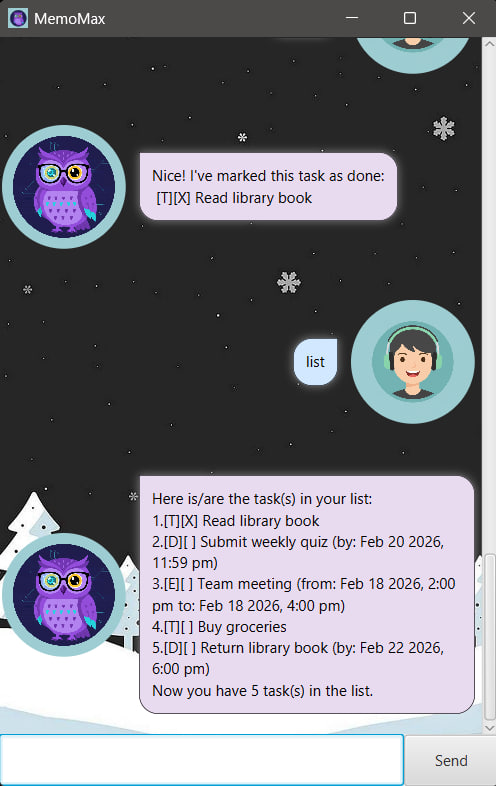
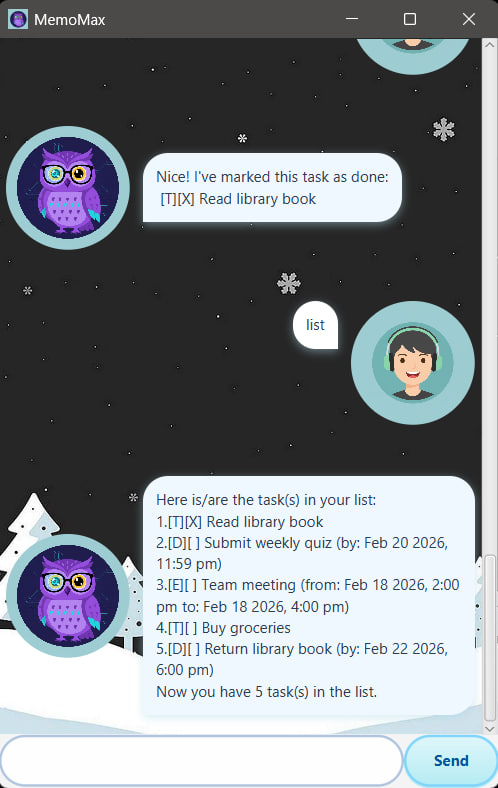
Implement window resizing and Snow Theme GUI

diff --git a/src/main/java/memomax/gui/DialogBox.java b/src/main/java/memomax/gui/DialogBox.java
@@ -36,7 +36,6 @@ public class DialogBox extends HBox {
         dialog.setText(text);
         displayPicture.setImage(img);
         dialog.setPadding(new javafx.geometry.Insets(10));
-        dialog.setStyle("-fx-border-width: 0.5;");
         dialog.setMinHeight(javafx.scene.layout.Region.USE_PREF_SIZE);
 
         makeCircle();
@@ -74,13 +73,11 @@ public class DialogBox extends HBox {
      */
     public static DialogBox getUserDialog(String text, Image img) {
         DialogBox db = new DialogBox(text, img);
-        db.dialog.setStyle(db.dialog.getStyle()
-                + "-fx-background-color: #D1E8FF; "
-                + "-fx-border-color: #000000; "
-                + "-fx-text-fill: black; "
-                + "-fx-background-radius: 15 0 15 15; "
-                + "-fx-border-radius: 15 0 15 15; "
-                + "-fx-effect: dropshadow(three-pass-box, rgba(255, 255, 255, 0.4), 10, 0, 0, 0);");
+        db.dialog.setStyle("-fx-background-color: #FFFFFF; "
+                + "-fx-text-fill: #2C3E50; "
+                + "-fx-background-radius: 20 20 0 20; "
+                + "-fx-padding: 10; "
+                + "-fx-effect: dropshadow(three-pass-box, rgba(173, 216, 230, 0.5), 10, 0, 0, 2);");
         return db;
     }
 
@@ -95,13 +92,11 @@ public class DialogBox extends HBox {
     public static DialogBox getMemoMaxDialog(String text, Image img) {
         DialogBox db = new DialogBox(text, img);
         db.flip();
-        db.dialog.setStyle(db.dialog.getStyle()
-                + "-fx-background-color: #E8DAEF; "
-                + "-fx-border-color: #000000; "
-                + "-fx-text-fill: black; "
-                + "-fx-background-radius: 0 15 15 15; "
-                + "-fx-border-radius: 0 15 15 15; "
-                + "-fx-effect: dropshadow(three-pass-box, rgba(255, 255, 255, 0.4), 10, 0, 0, 0);");
+        db.dialog.setStyle("-fx-background-color: #F0F8FF; "
+                + "-fx-text-fill: #2C3E50; "
+                + "-fx-background-radius: 20 20 20 0; "
+                + "-fx-padding: 10; "
+                + "-fx-effect: dropshadow(three-pass-box, rgba(173, 216, 230, 0.5), 10, 0, 0, 2);");
         return db;
     }
 }

diff --git a/src/main/java/memomax/gui/MainWindow.java b/src/main/java/memomax/gui/MainWindow.java
@@ -44,6 +44,9 @@ public class MainWindow extends AnchorPane {
     @FXML
     public void initialize() {
         scrollPane.vvalueProperty().bind(dialogContainer.heightProperty());
+
+        dialogContainer.prefWidthProperty().bind(scrollPane.widthProperty());
+
         String imageUrl = Objects.requireNonNull(getClass().getResource("/images/background.png"))
                 .toExternalForm();
         scrollPane.setStyle("-fx-background-color: transparent; "
@@ -54,6 +57,30 @@ public class MainWindow extends AnchorPane {
             + "-fx-background-repeat: no-repeat;");
 
         dialogContainer.setStyle("-fx-background-color: transparent;");
+
+        userInput.setStyle("-fx-background-color: rgba(255, 255, 255, 0.9); "
+                + "-fx-background-radius: 20; "
+                + "-fx-border-color: #B0C4DE; "
+                + "-fx-border-radius: 20; "
+                + "-fx-border-width: 2; "
+                + "-fx-padding: 5 15 5 15; "
+                + "-fx-text-fill: #2F4F4F; "
+                + "-fx-prompt-text-fill: #A9A9A9;");
+
+        String buttonBaseStyle = "-fx-background-color: linear-gradient(to bottom, #E0F7FA, #B2EBF2); "
+                + "-fx-background-radius: 20; "
+                + "-fx-border-color: #81D4FA; "
+                + "-fx-border-radius: 20; "
+                + "-fx-border-width: 2; "
+                + "-fx-text-fill: #01579B; "
+                + "-fx-font-weight: bold; ";
+
+        sendButton.setStyle(buttonBaseStyle);
+
+        sendButton.setOnMouseEntered(e -> sendButton.setStyle(buttonBaseStyle
+                + "-fx-effect: dropshadow(three-pass-box, rgba(255, 255, 255, 0.8), 15, 0, 0, 0); "
+                + "-fx-background-color: linear-gradient(to bottom, #FFFFFF, #E0F7FA);"));
+        sendButton.setOnMouseExited(e -> sendButton.setStyle(buttonBaseStyle));
     }
 
     /**

diff --git a/src/main/java/memomax/Main.java b/src/main/java/memomax/Main.java
@@ -25,7 +25,9 @@ public class Main extends Application {
             AnchorPane ap = fxmlLoader.load();
             Scene scene = new Scene(ap);
             stage.setScene(scene);
-            stage.setResizable(false);
+            stage.setResizable(true);
+            stage.setMinWidth(400.0);
+            stage.setMinHeight(600.0);
             stage.setTitle("MemoMax");
             stage.getIcons().add(new Image(Objects.requireNonNull(this.getClass()
                     .getResourceAsStream("/images/DaMemoMax.png"))));
